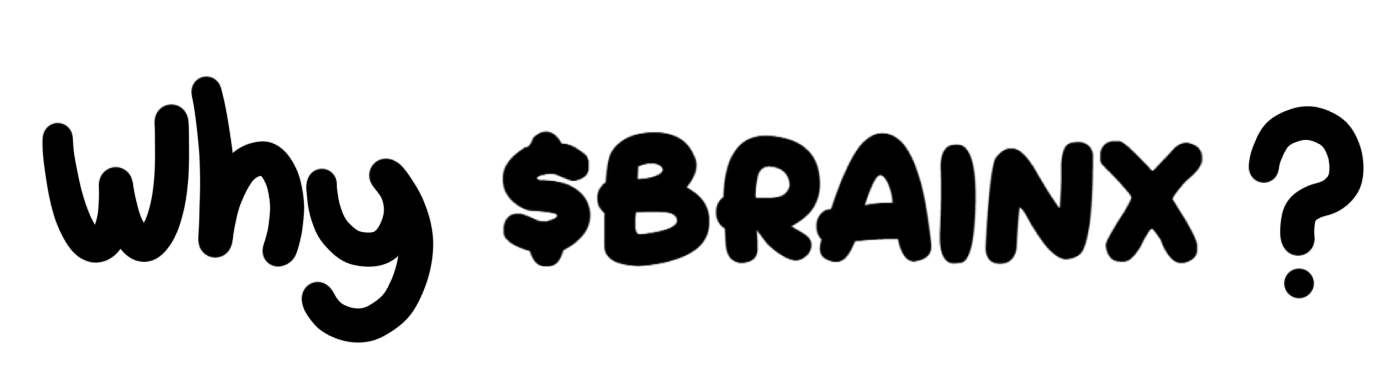
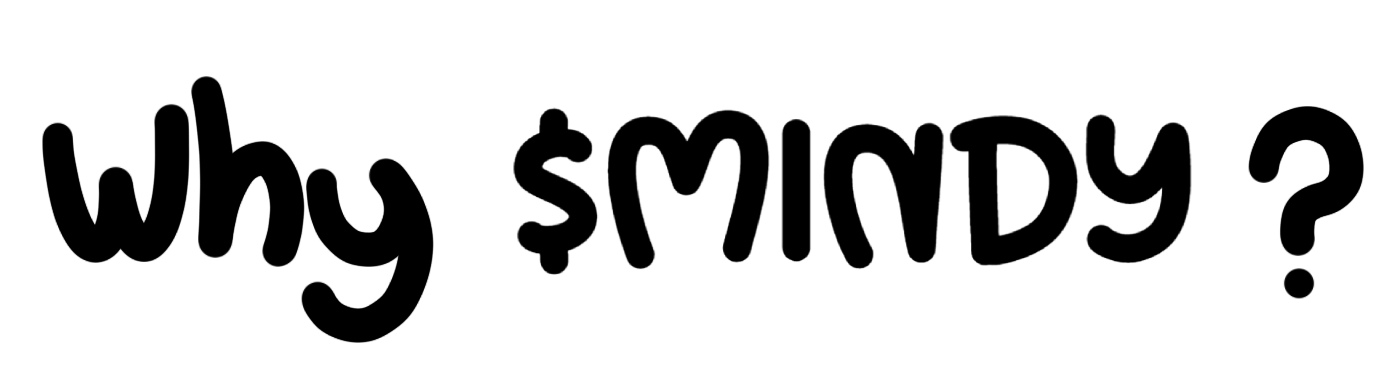
1

Changed region(s): [[0.3425, 0.2872, 0.8718, 0.718]]

diff --git a/index.html b/index.html
@@ -9,8 +9,8 @@
 <meta http-equiv="Expires" content="0" />
     <link rel="icon" href="./assets/logo1.png" type="image/png">
     <link rel="apple-touch-icon" href="./assets/logo1.png">
-    <title>BRAINX</title>
-    <meta name="description" content="BRAINX is a cheeky, sarcastic genius representing your inner thoughts on the Solana network." />
+    <title>MINDY</title>
+    <meta name="description" content="MINDY is a cheeky, sarcastic genius representing your inner thoughts on the Solana network." />
   
     <link rel="preconnect" href="https://fonts.googleapis.com">
     <link rel="preconnect" href="https://fonts.gstatic.com" crossorigin>
@@ -25,48 +25,48 @@
       <div class="ticker-wrapper">
         <div class="ticker">
             <div class="ticker-move">
-                <span class="text">82m4...<span style="color:#ff7bd3; font-weight: bold; text-transform: uppercase;">pump</span></span>
-                <span class="text">82m4...<span style="color:#ff7bd3; font-weight: bold; text-transform: uppercase;">pump</span></span>
-                <span class="text">82m4...<span style="color:#ff7bd3; font-weight: bold; text-transform: uppercase;">pump</span></span>
-                <span class="text">82m4...<span style="color:#ff7bd3; font-weight: bold; text-transform: uppercase;">pump</span></span>
-                <span class="text">82m4...<span style="color:#ff7bd3; font-weight: bold; text-transform: uppercase;">pump</span></span>
-                <span class="text">82m4...<span style="color:#ff7bd3; font-weight: bold; text-transform: uppercase;">pump</span></span>
-                <span class="text">82m4...<span style="color:#ff7bd3; font-weight: bold; text-transform: uppercase;">pump</span></span>
-                <span class="text">82m4...<span style="color:#ff7bd3; font-weight: bold; text-transform: uppercase;">pump</span></span>
-                <span class="text">82m4...<span style="color:#ff7bd3; font-weight: bold; text-transform: uppercase;">pump</span></span>
-                <span class="text">82m4...<span style="color:#ff7bd3; font-weight: bold; text-transform: uppercase;">pump</span></span>
-                <span class="text">82m4...<span style="color:#ff7bd3; font-weight: bold; text-transform: uppercase;">pump</span></span>
-                <span class="text">82m4...<span style="color:#ff7bd3; font-weight: bold; text-transform: uppercase;">pump</span></span>
-                <span class="text">82m4...<span style="color:#ff7bd3; font-weight: bold; text-transform: uppercase;">pump</span></span>
-                <span class="text">82m4...<span style="color:#ff7bd3; font-weight: bold; text-transform: uppercase;">pump</span></span>
-                <span class="text">82m4...<span style="color:#ff7bd3; font-weight: bold; text-transform: uppercase;">pump</span></span>
-                <span class="text">82m4...<span style="color:#ff7bd3; font-weight: bold; text-transform: uppercase;">pump</span></span>
-                <span class="text">82m4...<span style="color:#ff7bd3; font-weight: bold; text-transform: uppercase;">pump</span></span>
-                <span class="text">82m4...<span style="color:#ff7bd3; font-weight: bold; text-transform: uppercase;">pump</span></span>
-                <span class="text">82m4...<span style="color:#ff7bd3; font-weight: bold; text-transform: uppercase;">pump</span></span>
-                <span class="text">82m4...<span style="color:#ff7bd3; font-weight: bold; text-transform: uppercase;">pump</span></span>
+                <span class="text">ZXwP...<span style="color:#ff7bd3; font-weight: bold; text-transform: uppercase;">pump</span></span>
+                <span class="text">ZXwP...<span style="color:#ff7bd3; font-weight: bold; text-transform: uppercase;">pump</span></span>
+                <span class="text">ZXwP...<span style="color:#ff7bd3; font-weight: bold; text-transform: uppercase;">pump</span></span>
+                <span class="text">ZXwP...<span style="color:#ff7bd3; font-weight: bold; text-transform: uppercase;">pump</span></span>
+                <span class="text">ZXwP...<span style="color:#ff7bd3; font-weight: bold; text-transform: uppercase;">pump</span></span>
+                <span class="text">ZXwP...<span style="color:#ff7bd3; font-weight: bold; text-transform: uppercase;">pump</span></span>
+                <span class="text">ZXwP...<span style="color:#ff7bd3; font-weight: bold; text-transform: uppercase;">pump</span></span>
+                <span class="text">ZXwP...<span style="color:#ff7bd3; font-weight: bold; text-transform: uppercase;">pump</span></span>
+                <span class="text">ZXwP...<span style="color:#ff7bd3; font-weight: bold; text-transform: uppercase;">pump</span></span>
+                <span class="text">ZXwP...<span style="color:#ff7bd3; font-weight: bold; text-transform: uppercase;">pump</span></span>
+                <span class="text">ZXwP...<span style="color:#ff7bd3; font-weight: bold; text-transform: uppercase;">pump</span></span>
+                <span class="text">ZXwP...<span style="color:#ff7bd3; font-weight: bold; text-transform: uppercase;">pump</span></span>
+                <span class="text">ZXwP...<span style="color:#ff7bd3; font-weight: bold; text-transform: uppercase;">pump</span></span>
+                <span class="text">ZXwP...<span style="color:#ff7bd3; font-weight: bold; text-transform: uppercase;">pump</span></span>
+                <span class="text">ZXwP...<span style="color:#ff7bd3; font-weight: bold; text-transform: uppercase;">pump</span></span>
+                <span class="text">ZXwP...<span style="color:#ff7bd3; font-weight: bold; text-transform: uppercase;">pump</span></span>
+                <span class="text">ZXwP...<span style="color:#ff7bd3; font-weight: bold; text-transform: uppercase;">pump</span></span>
+                <span class="text">ZXwP...<span style="color:#ff7bd3; font-weight: bold; text-transform: uppercase;">pump</span></span>
+                <span class="text">ZXwP...<span style="color:#ff7bd3; font-weight: bold; text-transform: uppercase;">pump</span></span>
+                <span class="text">ZXwP...<span style="color:#ff7bd3; font-weight: bold; text-transform: uppercase;">pump</span></span>
             </div>
             <DIV class="ticker-move">
-                <span class="text">82m4...<span style="color:#ff7bd3; font-weight: bold; text-transform: uppercase;">pump</span></span>
-                <span class="text">82m4...<span style="color:#ff7bd3; font-weight: bold; text-transform: uppercase;">pump</span></span>
-                <span class="text">82m4...<span style="color:#ff7bd3; font-weight: bold; text-transform: uppercase;">pump</span></span>
-                <span class="text">82m4...<span style="color:#ff7bd3; font-weight: bold; text-transform: uppercase;">pump</span></span>
-                <span class="text">82m4...<span style="color:#ff7bd3; font-weight: bold; text-transform: uppercase;">pump</span></span>
-                <span class="text">82m4...<span style="color:#ff7bd3; font-weight: bold; text-transform: uppercase;">pump</span></span>
-                <span class="text">82m4...<span style="color:#ff7bd3; font-weight: bold; text-transform: uppercase;">pump</span></span>
-                <span class="text">82m4...<span style="color:#ff7bd3; font-weight: bold; text-transform: uppercase;">pump</span></span>
-                <span class="text">82m4...<span style="color:#ff7bd3; font-weight: bold; text-transform: uppercase;">pump</span></span>
-                <span class="text">82m4...<span style="color:#ff7bd3; font-weight: bold; text-transform: uppercase;">pump</span></span>
-                <span class="text">82m4...<span style="color:#ff7bd3; font-weight: bold; text-transform: uppercase;">pump</span></span>
-                <span class="text">82m4...<span style="color:#ff7bd3; font-weight: bold; text-transform: uppercase;">pump</span></span>
-                <span class="text">82m4...<span style="color:#ff7bd3; font-weight: bold; text-transform: uppercase;">pump</span></span>
-                <span class="text">82m4...<span style="color:#ff7bd3; font-weight: bold; text-transform: uppercase;">pump</span></span>
-                <span class="text">82m4...<span style="color:#ff7bd3; font-weight: bold; text-transform: uppercase;">pump</span></span>
-                <span class="text">82m4...<span style="color:#ff7bd3; font-weight: bold; text-transform: uppercase;">pump</span></span>
-                <span class="text">82m4...<span style="color:#ff7bd3; font-weight: bold; text-transform: uppercase;">pump</span></span>
-                <span class="text">82m4...<span style="color:#ff7bd3; font-weight: bold; text-transform: uppercase;">pump</span></span>
-                <span class="text">82m4...<span style="color:#ff7bd3; font-weight: bold; text-transform: uppercase;">pump</span></span>
-                <span class="text">82m4...<span style="color:#ff7bd3; font-weight: bold; text-transform: uppercase;">pump</span></span>
+                <span class="text">ZXwP...<span style="color:#ff7bd3; font-weight: bold; text-transform: uppercase;">pump</span></span>
+                <span class="text">ZXwP...<span style="color:#ff7bd3; font-weight: bold; text-transform: uppercase;">pump</span></span>
+                <span class="text">ZXwP...<span style="color:#ff7bd3; font-weight: bold; text-transform: uppercase;">pump</span></span>
+                <span class="text">ZXwP...<span style="color:#ff7bd3; font-weight: bold; text-transform: uppercase;">pump</span></span>
+                <span class="text">ZXwP...<span style="color:#ff7bd3; font-weight: bold; text-transform: uppercase;">pump</span></span>
+                <span class="text">ZXwP...<span style="color:#ff7bd3; font-weight: bold; text-transform: uppercase;">pump</span></span>
+                <span class="text">ZXwP...<span style="color:#ff7bd3; font-weight: bold; text-transform: uppercase;">pump</span></span>
+                <span class="text">ZXwP...<span style="color:#ff7bd3; font-weight: bold; text-transform: uppercase;">pump</span></span>
+                <span class="text">ZXwP...<span style="color:#ff7bd3; font-weight: bold; text-transform: uppercase;">pump</span></span>
+                <span class="text">ZXwP...<span style="color:#ff7bd3; font-weight: bold; text-transform: uppercase;">pump</span></span>
+                <span class="text">ZXwP...<span style="color:#ff7bd3; font-weight: bold; text-transform: uppercase;">pump</span></span>
+                <span class="text">ZXwP...<span style="color:#ff7bd3; font-weight: bold; text-transform: uppercase;">pump</span></span>
+                <span class="text">ZXwP...<span style="color:#ff7bd3; font-weight: bold; text-transform: uppercase;">pump</span></span>
+                <span class="text">ZXwP...<span style="color:#ff7bd3; font-weight: bold; text-transform: uppercase;">pump</span></span>
+                <span class="text">ZXwP...<span style="color:#ff7bd3; font-weight: bold; text-transform: uppercase;">pump</span></span>
+                <span class="text">ZXwP...<span style="color:#ff7bd3; font-weight: bold; text-transform: uppercase;">pump</span></span>
+                <span class="text">ZXwP...<span style="color:#ff7bd3; font-weight: bold; text-transform: uppercase;">pump</span></span>
+                <span class="text">ZXwP...<span style="color:#ff7bd3; font-weight: bold; text-transform: uppercase;">pump</span></span>
+                <span class="text">ZXwP...<span style="color:#ff7bd3; font-weight: bold; text-transform: uppercase;">pump</span></span>
+                <span class="text">ZXwP...<span style="color:#ff7bd3; font-weight: bold; text-transform: uppercase;">pump</span></span>
             </div>
         </div>
       </div>
@@ -91,22 +91,22 @@
       <div class="social-links-and-ca-wrapper">
         <div class="social-links-wrapper">
 
-          <a class="social-link"  href="https://x.com/brainxsol" target="_blank">
+          <a class="social-link"  href="https://x.com/mindyonsol" target="_blank">
             <img class="social-img" src="./assets/social/x.svg"/>
           </a>
 
-          <a class="social-link"  href="https://t.me/brainxsol" target="_blank">
+          <a class="social-link"  href="https://t.me/mindyonsol" target="_blank">
             <img class="social-img" src="./assets/social/telegram.svg"/>
           </a>
           <a class="social-link"  href="#" target="_blank">
             <img class="social-img" src="./assets/DEXTools Isotype_black (alternative color).png"/>
           </a>
-            <a class="social-link"  href="https://pump.fun/82m4KxCHPGb88K6MeuQFLDoLEkHvJdoM422SgMrpump" target="_blank">
+            <a class="social-link"  href="https://pump.fun/ZXwPaBqeFNbtFxbTK4w1xkuZT8XhwFHXQBYNzTLpump" target="_blank">
             <img style="filter: brightness(0%);" class="social-img" src="./assets/pump.png"/>
           </a>
         </div>
         <div class="ca">
-          82m4KxCHPGb88K6MeuQFLDoLEkHvJdoM422SgMr<span style="color:#ff7bd3; font-weight: bold; text-transform: uppercase;">pump</span>
+          ZXwPaBqeFNbtFxbTK4w1xkuZT8XhwFHXQBYNzTL<span style="color:#ff7bd3; font-weight: bold; text-transform: uppercase;">pump</span>
         </div>
       </div>
 
@@ -117,8 +117,8 @@
           <img class="brain-text-logo shaker" alt="brain-text-logo" src="./assets/brain_header.png" />
         </div>
 
-        <span class="brain-text fade-in-element">BRAINX is a cheeky, sarcastic genius representing your inner thoughts on the Solana network.</span>
-        <a href="https://pump.fun/82m4KxCHPGb88K6MeuQFLDoLEkHvJdoM422SgMrpump" target="_blank" class="buy-brain-button"><img src="./assets/buy_brain_button.png" /></a>
+        <span class="brain-text fade-in-element">MINDY is a cheeky, sarcastic genius representing your inner thoughts on the Solana network.</span>
+        <a href="https://pump.fun/ZXwPaBqeFNbtFxbTK4w1xkuZT8XhwFHXQBYNzTLpump" target="_blank" class="buy-brain-button"><img src="./assets/buy_brain_button.png" /></a>
       </div>
     </section>
     <section class="why-brain-wrapper">
@@ -126,10 +126,10 @@
         <div class="text-warpper">
           <img class="section-title why-brain-title fade-in-element" src="./assets/why_brain.png" />
           <br>
-            Dis smol BRAINX sez: "BUY NOW!"</br>
-            Dis big BRAINX sez: "MOON SOON!</br>
+            Dis smol MINDY sez: "BUY NOW!"</br>
+            Dis big MINDY sez: "MOON SOON!</br>
           </br>
-            Why $BRAINX Coin?</br>
+            Why $MINDY Coin?</br>
           </br>
             MOON! We go zoom zoom 🚀</br>
             DIAMOND HANDS! No paper hands, no weak sauce 💎✋</br>
@@ -150,48 +150,48 @@
       <div class="ticker-wrapper dark">
         <div class="ticker">
             <div class="ticker-move">
-                <span class="text">$BRAINX</span>
-                <span class="text">$BRAINX</span>
-                <span class="text">$BRAINX</span>
-                <span class="text">$BRAINX</span>
-                <span class="text">$BRAINX</span>
-                <span class="text">$BRAINX</span>
-                <span class="text">$BRAINX</span>
-                <span class="text">$BRAINX</span>
-                <span class="text">$BRAINX</span>
-                <span class="text">$BRAINX</span>
-                <span class="text">$BRAINX</span>
-                <span class="text">$BRAINX</span>
-                <span class="text">$BRAINX</span>
-                <span class="text">$BRAINX</span>
-                <span class="text">$BRAINX</span>
-                <span class="text">$BRAINX</span>
-                <span class="text">$BRAINX</span>
-                <span class="text">$BRAINX</span>
-                <span class="text">$BRAINX</span>
-                <span class="text">$BRAINX</span>
+                <span class="text">$MINDY</span>
+                <span class="text">$MINDY</span>
+                <span class="text">$MINDY</span>
+                <span class="text">$MINDY</span>
+                <span class="text">$MINDY</span>
+                <span class="text">$MINDY</span>
+                <span class="text">$MINDY</span>
+                <span class="text">$MINDY</span>
+                <span class="text">$MINDY</span>
+                <span class="text">$MINDY</span>
+                <span class="text">$MINDY</span>
+                <span class="text">$MINDY</span>
+                <span class="text">$MINDY</span>
+                <span class="text">$MINDY</span>
+                <span class="text">$MINDY</span>
+                <span class="text">$MINDY</span>
+                <span class="text">$MINDY</span>
+                <span class="text">$MINDY</span>
+                <span class="text">$MINDY</span>
+                <span class="text">$MINDY</span>
             </div>
             <div class="ticker-move">
-                <span class="text">$BRAINX</span>
-                <span class="text">$BRAINX</span>
-                <span class="text">$BRAINX</span>
-                <span class="text">$BRAINX</span>
-                <span class="text">$BRAINX</span>
-                <span class="text">$BRAINX</span>
-                <span class="text">$BRAINX</span>
-                <span class="text">$BRAINX</span>
-                <span class="text">$BRAINX</span>
-                <span class="text">$BRAINX</span>
-                <span class="text">$BRAINX</span>
-                <span class="text">$BRAINX</span>
-                <span class="text">$BRAINX</span>
-                <span class="text">$BRAINX</span>
-                <span class="text">$BRAINX</span>
-                <span class="text">$BRAINX</span>
-                <span class="text">$BRAINX</span>
-                <span class="text">$BRAINX</span>
-                <span class="text">$BRAINX</span>
-                <span class="text">$BRAINX</span>
+                <span class="text">$MINDY</span>
+                <span class="text">$MINDY</span>
+                <span class="text">$MINDY</span>
+                <span class="text">$MINDY</span>
+                <span class="text">$MINDY</span>
+                <span class="text">$MINDY</span>
+                <span class="text">$MINDY</span>
+                <span class="text">$MINDY</span>
+                <span class="text">$MINDY</span>
+                <span class="text">$MINDY</span>
+                <span class="text">$MINDY</span>
+                <span class="text">$MINDY</span>
+                <span class="text">$MINDY</span>
+                <span class="text">$MINDY</span>
+                <span class="text">$MINDY</span>
+                <span class="text">$MINDY</span>
+                <span class="text">$MINDY</span>
+                <span class="text">$MINDY</span>
+                <span class="text">$MINDY</span>
+                <span class="text">$MINDY</span>
             </div>
         </div>
       </div>
@@ -232,13 +232,13 @@
 
         <div class="step">
           <div class="step-title-and-text">
-            <h3>3. SWAP $SOL FOR $BRAINX</h3>
-            <p>Click on the button below, connect your wallet, and press SWAP! BOOM! <strong>You are a $BRAINX holder!</strong></p>
+            <h3>3. SWAP $SOL FOR $MINDY</h3>
+            <p>Click on the button below, connect your wallet, and press SWAP! BOOM! <strong>You are a $MINDY holder!</strong></p>
             <p></p>
-              <a href="https://pump.fun/82m4KxCHPGb88K6MeuQFLDoLEkHvJdoM422SgMrpump" target="_blank" class="buy-brain-instep">Buy $BRAINX</a>
+              <a href="https://pump.fun/ZXwPaBqeFNbtFxbTK4w1xkuZT8XhwFHXQBYNzTLpump" target="_blank" class="buy-brain-instep">Buy $MINDY</a>
           </div>
 
-          <img src="./assets/c.png" alt="Swap $SOL for $BRAINX">
+          <img src="./assets/c.png" alt="Swap $SOL for $MINDY">
         </div>
     </div>
     </section>
@@ -248,11 +248,11 @@
 
       <div class="social-links-wrapper-bottom">
 
-        <a class="social-link" href="https://x.com/brainxsol" target="_blank">
+        <a class="social-link" href="https://x.com/mindyonsol" target="_blank">
           <img class="social-img" src="./assets/social/x-w.svg"/>
         </a>
 
-        <a class="social-link" href="https://t.me/brainxsol" target="_blank">
+        <a class="social-link" href="https://t.me/mindyonsol" target="_blank">
           <img class="social-img" src="./assets/social/telegram-w.svg"/>
         </a>
       </div>
@@ -268,7 +268,7 @@
     </section>
     <div class="footer">
       <span class="disclaimer">
-        Legal Disclaimer: $BRAINX is a meme coin with no value or financial return. $BRAINX is purely for entertainment. By purchasing $BRAINX, you acknowledge this disclaimer.
+        Legal Disclaimer: $MINDY is a meme coin with no value or financial return. $MINDY is purely for entertainment. By purchasing $MINDY, you acknowledge this disclaimer.
       </span>
     </div>
     <script type="text/javascript" src="./script.js?v=1.0.1"></script>
